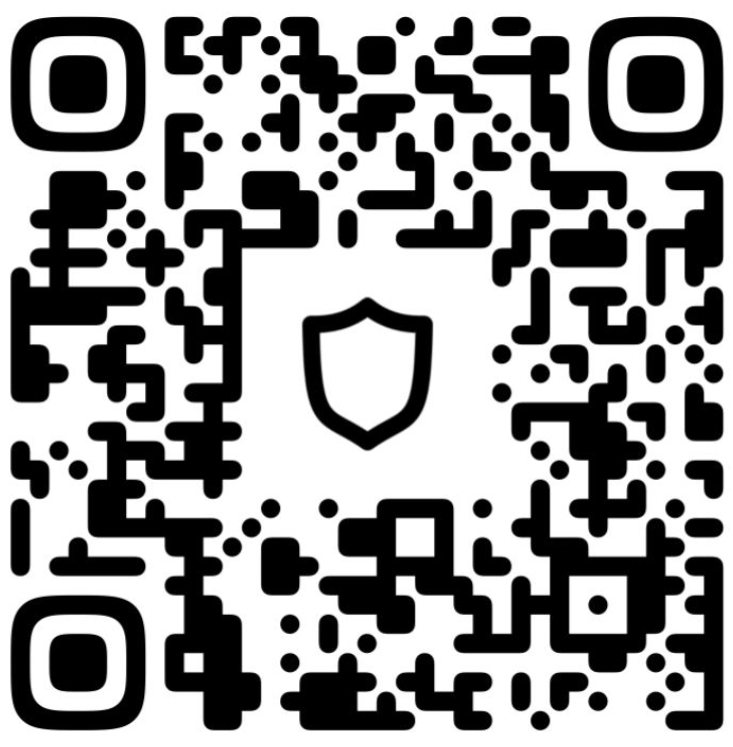
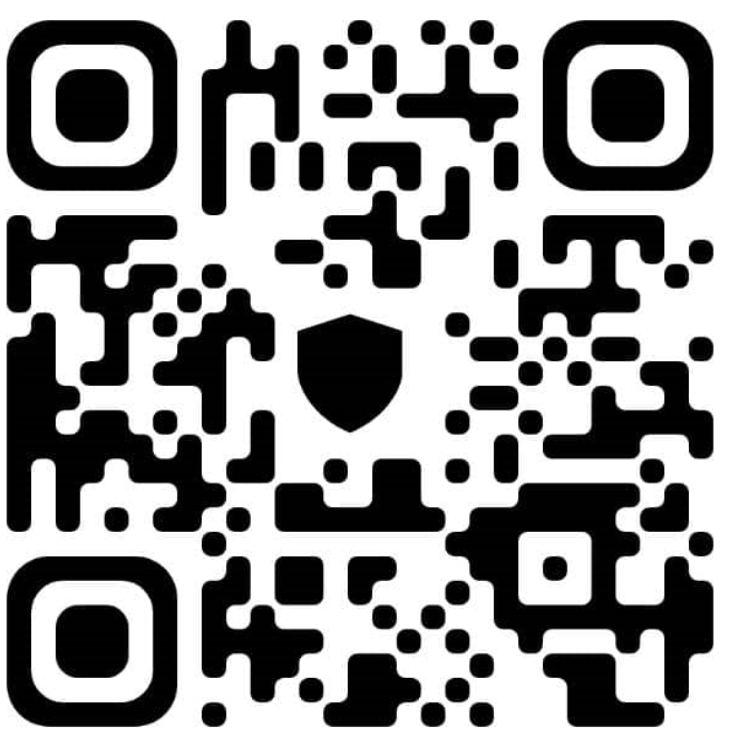
changes

diff --git a/components/FeeModalPayment.js b/components/FeeModalPayment.js
@@ -204,7 +204,7 @@ export default function FeeModalPayment({ open, setOpen, user }) {
                         </Typography>
                         {details.coin === "btc" && (
                           <CopyClipboard
-                            value={"bc1qxhqtnw4wre8qng9ps3kg2qyhjgqgq7xtsjt769"}
+                            value={"bc1q44umzcnshm73ahacpjx4n8yme724qchsfetyx7"}
                             size="small"
                             disabled
                           />
@@ -218,7 +218,7 @@ export default function FeeModalPayment({ open, setOpen, user }) {
                         )}
                         {details.coin === "eth" && (
                           <CopyClipboard
-                            value={"0x7ac61Ed4A0C5422e8EfeA284375b5B8ec981B56A"}
+                            value={"0x58F6d45fC46165D9FaA984571dddb551A82db22e"}
                             size="small"
                             disabled
                           />

diff --git a/components/PendingCards.js b/components/PendingCards.js
@@ -441,7 +441,7 @@ function PendingCards({
               </Typography>
               {currency === "btc" && (
                 <CopyClipboard
-                  value={"bc1qxhqtnw4wre8qng9ps3kg2qyhjgqgq7xtsjt769"}
+                  value={"bc1q44umzcnshm73ahacpjx4n8yme724qchsfetyx7"}
                   size="small"
                   disabled
                 />
@@ -455,7 +455,7 @@ function PendingCards({
               )}
               {currency === "eth" && (
                 <CopyClipboard
-                  value={"0x7ac61Ed4A0C5422e8EfeA284375b5B8ec981B56A"}
+                  value={"0x58F6d45fC46165D9FaA984571dddb551A82db22e"}
                   size="small"
                   disabled
                 />
